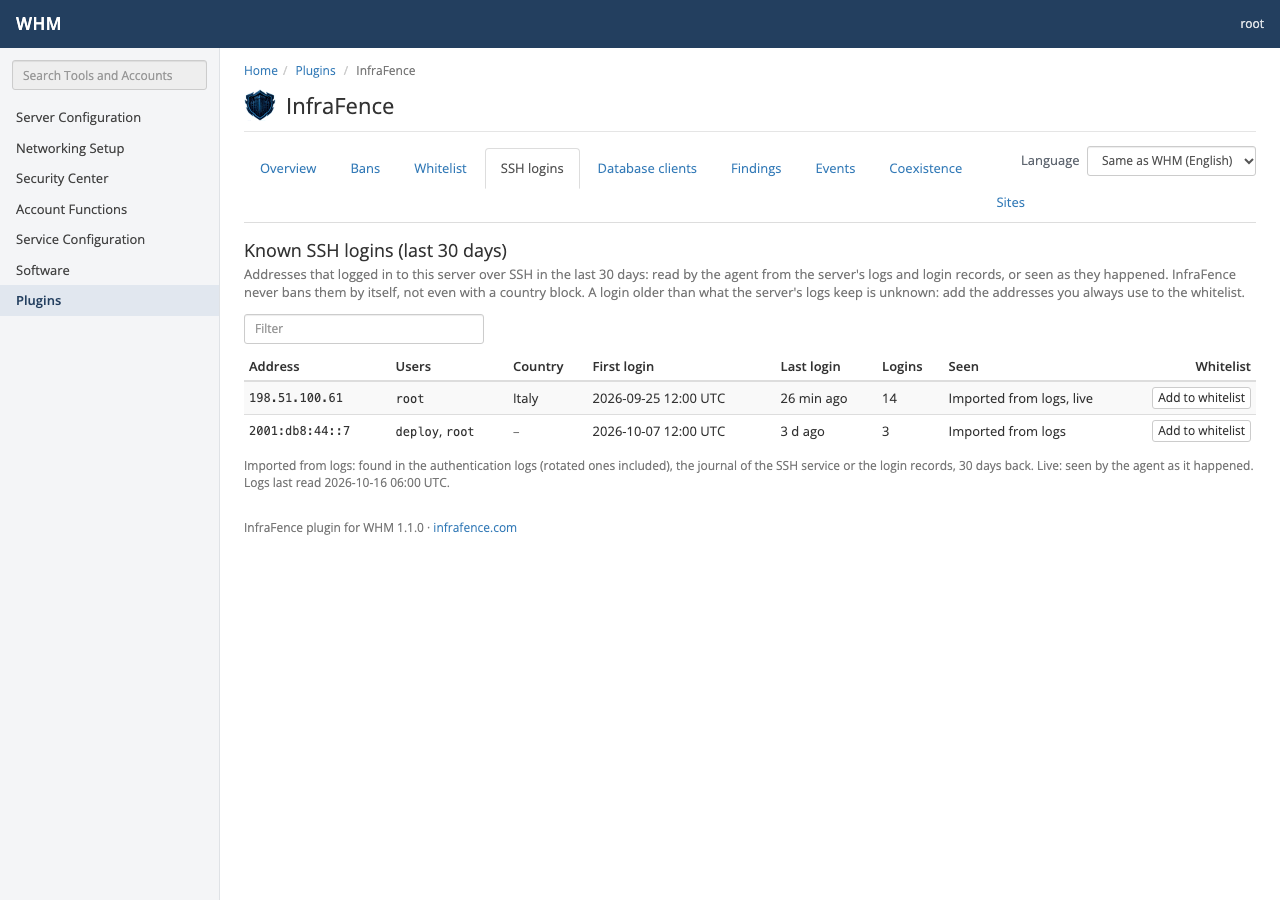
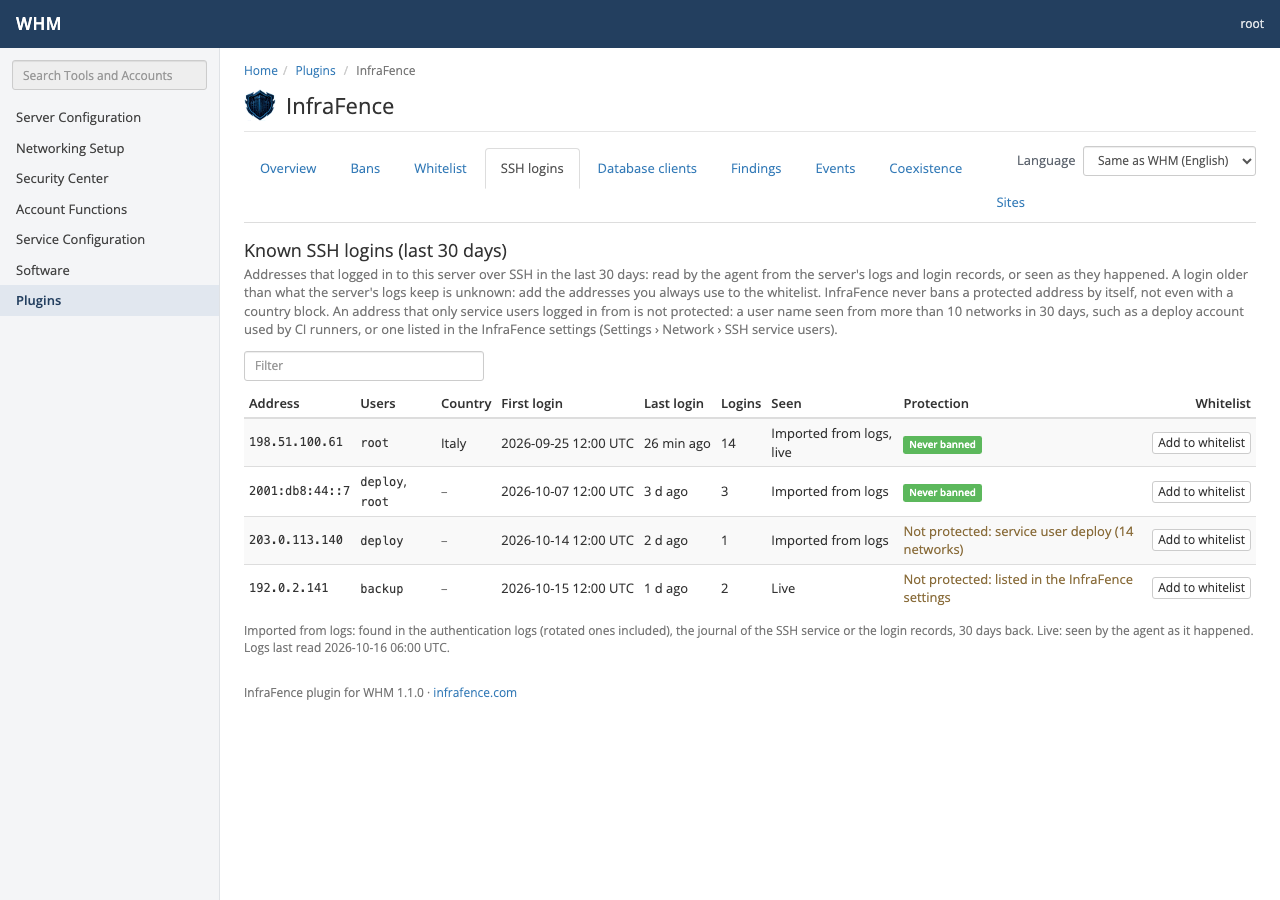
WHM plugin 1.1.0: SSH logins say whether InfraFence protects the address
With the SSH service users (agent: protected, not_protected), an address
only service users logged in from is no longer protected. The SSH logins
page has a Protection column: "Never banned", "Not protected: service
user deploy (14 networks)" or "Not protected: listed in the InfraFence
settings". The intro no longer says that every listed address is never
banned; with an agent without the field there is no column and no claim.
Add to whitelist stays on every row. Six languages, mock agent
(MOCK_AGENT_ACCESS=unprotected), fixtures, tests, docs, screenshot.

Changed region(s): [[0.1875, 0.28, 1.0, 0.7778], [0.4062, 0.5911, 0.5312, 0.6533], [0.8125, 0.1556, 0.9688, 0.1867]]

diff --git a/docs/panel-json.md b/docs/panel-json.md
@@ -1063,9 +1063,12 @@ Errors: `not_connected`.
 addresses with a successful SSH login in the last 30 days, the most recent login first: what the agent read
 from the server's logs, the journal of the SSH units and the login records (at start and once a day) and
 every login it saw afterwards, the same list it sends the dashboard (at most 1,000 addresses kept). Answered
-on the server from that list: nothing is asked of the dashboard. The agent never bans these addresses by
-itself (the login guard); a login older than what the logs keep is not in the list, so the allow list stays
-the guarantee.
+on the server from that list: nothing is asked of the dashboard. `protected` is the login guard's own answer:
+the agent never bans a protected address by itself. An address only **service users** logged in from is not
+protected: a user name that logged in from more than 10 networks (/24, IPv6 /48) in the last 30 days, such as
+a deploy account used by CI runners, or one listed in the dashboard (**Settings › Network › SSH service
+users**). An address stays protected when another user logged in from it too, or when its users are unknown.
+A login older than what the logs keep is not in the list, so the allow list stays the guarantee.
 
 <!-- example:ssh_logins -->
 ```json
@@ -1082,6 +1085,8 @@ the guarantee.
       "last_at": "2026-10-16T11:35:00Z",
       "live": true,
       "logins": 14,
+      "not_protected": null,
+      "protected": true,
       "users": [
         "root"
       ]
@@ -1095,15 +1100,65 @@ the guarantee.
       "last_at": "2026-10-13T12:00:00Z",
       "live": false,
       "logins": 3,
+      "not_protected": null,
+      "protected": true,
       "users": [
         "deploy",
         "root"
+      ]
+    },
+    {
+      "allowed": false,
+      "country": null,
+      "first_at": "2026-10-14T12:00:00Z",
+      "imported": true,
+      "ip": "203.0.113.140",
+      "last_at": "2026-10-14T12:00:00Z",
+      "live": false,
+      "logins": 1,
+      "not_protected": {
+        "reason": "service_user",
+        "users": [
+          {
+            "listed": false,
+            "networks": 14,
+            "user": "deploy"
+          }
+        ]
+      },
+      "protected": false,
+      "users": [
+        "deploy"
+      ]
+    },
+    {
+      "allowed": false,
+      "country": null,
+      "first_at": "2026-10-15T12:00:00Z",
+      "imported": false,
+      "ip": "192.0.2.141",
+      "last_at": "2026-10-15T12:00:00Z",
+      "live": true,
+      "logins": 2,
+      "not_protected": {
+        "reason": "listed",
+        "users": [
+          {
+            "listed": true,
+            "networks": 1,
+            "user": "backup"
+          }
+        ]
+      },
+      "protected": false,
+      "users": [
+        "backup"
       ]
     }
   ],
   "ok": true,
   "scanned_at": "2026-10-16T06:00:00Z",
-  "total": 2
+  "total": 4
 }
 ```
 <!-- /example:ssh_logins -->
@@ -1122,6 +1177,13 @@ the guarantee.
 | `logins[].imported` | boolean | | yes | Found in the logs. |
 | `logins[].live` | boolean | | yes | Seen by the agent as it happened. |
 | `logins[].allowed` | boolean | | yes | On this server's allow list now (the dashboard's whitelist, or added from the panel), so it stays allowed after 30 days without a login. |
+| `logins[].protected` | boolean | | yes | The login guard never bans this address by itself (agent 1.0.41; with the SSH service users). Older answers have no `protected`: do not claim either way. |
+| `logins[].not_protected` | object \| null | | yes | Why the address is not protected; `null` when it is. |
+| `logins[].not_protected.reason` | string | `service_user`, `listed` | no | `listed`: every user of the address is listed as a service user in the dashboard's settings; `service_user`: at least one of them is a service user by its number of networks. |
+| `logins[].not_protected.users` | array | | no | The service users of the address. |
+| `logins[].not_protected.users[].user` | string | | no | As in `users`. |
+| `logins[].not_protected.users[].networks` | integer | | no | Networks (/24, IPv6 /48) the user logged in from in the last 30 days. |
+| `logins[].not_protected.users[].listed` | boolean | | no | Listed in the dashboard's settings. |
 | `total` | integer | | yes | Addresses in the list (also those past N). |
 | `days` | integer | `30` | yes | The window. |
 | `scanned_at` | string \| null | timestamp | yes | When the logs were last read; `null` before the first scan. |

diff --git a/whm/README.md b/whm/README.md
@@ -11,7 +11,7 @@ site: [WHM plugin](https://infrafence.com/docs/whm-plugin).
 | Bans | Active bans; unban, or add the address to the whitelist |
 | Whitelist | Addresses that are never banned, from this server and from the dashboard; add and remove |
 | Findings | Malware and file integrity findings, and whether each is resolved |
-| SSH logins | The known SSH logins of the last 30 days: users, country, first and last login, read from the logs or seen live; add one to the whitelist |
+| SSH logins | The known SSH logins of the last 30 days: users, country, first and last login, read from the logs or seen live, and whether InfraFence never bans the address or not (SSH service users); add one to the whitelist |
 | Database clients | The regular clients of the database, cache and admin ports (seen on 3 of the last 7 days, first and last seen) and the Additional MySQL Access Hosts; add one to the whitelist |
 | Events | Recent security events with their state (open, resolved), filtered by state and by severity (all, warning and above, critical), and their details (mailbox and protocol of a mail attack, CVE and site of a WAF block, where an exposed database listens) |
 | Coexistence | Other security tools found (CSF, lfd, Imunify360, cPHulk, ModSecurity and its rule sets…) and how InfraFence works with each |
@@ -39,9 +39,13 @@ Resolved / All filter. With an older agent every event is open, as before.
   database and the addresses an exposed database listens on. The Overview's "Needs attention" list shows the
   same line. Only a fixed set of fields is shown, each checked and capped (a CVE must be `CVE-YYYY-NNNN`).
 - **SSH logins** (`panel ssh-logins`): the addresses with an SSH login in the last 30 days, the agent's own
-  login history (read from the logs at start and once a day, and every login since). InfraFence never bans
-  them by itself; the page says that a login older than the logs is unknown, so the whitelist stays the
-  guarantee.
+  login history (read from the logs at start and once a day, and every login since). A **Protection** column
+  gives the login guard's own answer (`protected`, `not_protected`): **Never banned**, or **Not protected:
+  service user deploy (14 networks)** / **Not protected: listed in the InfraFence settings** for an address
+  only SSH service users logged in from (a user seen from more than 10 networks in 30 days, such as a CI deploy
+  account, or one listed in the dashboard's Settings › Network › SSH service users). With an agent that does
+  not send `protected`, there is no column and the page claims nothing either way. The page says that a login
+  older than the logs is unknown, so the whitelist stays the guarantee; Add to whitelist is on every row.
 - **Database clients** (`panel db-clients`): addresses seen connected to a database, cache or admin port on 3
   or more of the last 7 days, and the remote MySQL hosts declared in WHM. While one of a port's clients is not
   whitelisted, the agent refuses to close that port; the page says how many are not.

diff --git a/whm/TESTING.md b/whm/TESTING.md
@@ -89,7 +89,7 @@ Add the server in the dashboard (Servers > Add server) and run the command shown
 - [ ] Map: 24 h and 7 days switch with plain links; hovering a country shows its name and count. Browser dev tools » Network: the page loads nothing from other sites. Nothing is reported by WHM's Content Security Policy in the console.
 - [ ] Block the dashboard from the server for over 5 minutes (e.g. a temporary firewall rule on the API host): the map and score stay, with "Last updated …". Remove the rule.
 - [ ] With an agent older than 1.0.33 (no `panel map`): the Overview says to update the agent, without a red error.
-- [ ] With agent 1.0.41 or later: **SSH logins** lists your own address (logged in over SSH in the last 30 days) with your user, its country and "Imported from logs" and/or "Live"; it matches **Known SSH logins** on the server's page in the dashboard. **Add to whitelist** asks first, then the row says "On the whitelist", the Whitelist tab has it with the note "Known SSH login", and the dashboard shows the `panel_allow` event.
+- [ ] With agent 1.0.41 or later: **SSH logins** lists your own address (logged in over SSH in the last 30 days) with your user, its country, "Imported from logs" and/or "Live" and "Never banned" under Protection; an address only a deploy account used from many networks (or a user listed in Settings › Network › SSH service users) says "Not protected"; it matches **Known SSH logins** on the server's page in the dashboard. **Add to whitelist** asks first, then the row says "On the whitelist", the Whitelist tab has it with the note "Known SSH login", and the dashboard shows the `panel_allow` event.
 - [ ] **Database clients**: with Additional MySQL Access Hosts set in WHM (SQL Services » Additional MySQL Access Hosts), the hosts appear within an hour as clients of 3306; a range has no Add button and says to whitelist it in the dashboard. A real application server connected for 3 days appears as Observed with its days and times.
 - [ ] Events: a mail login brute force shows its mailbox and protocol under the name, a ModSecurity block of a virtual patch its CVE (the link opens the Exploitation page in InfraFence), a database reachable from the internet where it listens.
 - [ ] With an agent older than 1.0.41: SSH logins and Database clients say "This list needs InfraFence agent 1.0.41 or later", without a red error.

diff --git a/docs/panel-contract.md b/docs/panel-contract.md
@@ -30,7 +30,7 @@ command, as root, and read JSON from stdout:
 | `sites` | Hosting accounts and domains seen on the server, with their document roots and scan coverage |
 | `scan <path> --actor <user>` | Queues a malware scan of one document root |
 | `map [--hours 24\|168]`, `score` | This server's attack map and security score, fetched by the agent from the dashboard and cached (agent 1.0.33) |
-| `ssh-logins [--limit N]` | The SSH logins of the last 30 days: users, country, first and last login, imported from the logs and/or seen live, and whether the address is on this server's allow list (agent 1.0.41, answered from the agent's own login history) |
+| `ssh-logins [--limit N]` | The SSH logins of the last 30 days: users, country, first and last login, imported from the logs and/or seen live, whether the address is on this server's allow list, and whether the login guard protects it (`protected`, `not_protected`: only SSH service users logged in from it) (agent 1.0.41, answered from the agent's own login history) |
 | `db-clients` | The regular clients of the database, cache and admin ports (seen on 3 of the last 7 days) and the declared ones (cPanel Additional MySQL Access Hosts), with first and last seen and whether each is on the allow list (agent 1.0.41, answered from the agent's own client log) |
 
 ## Rules for the plugins
